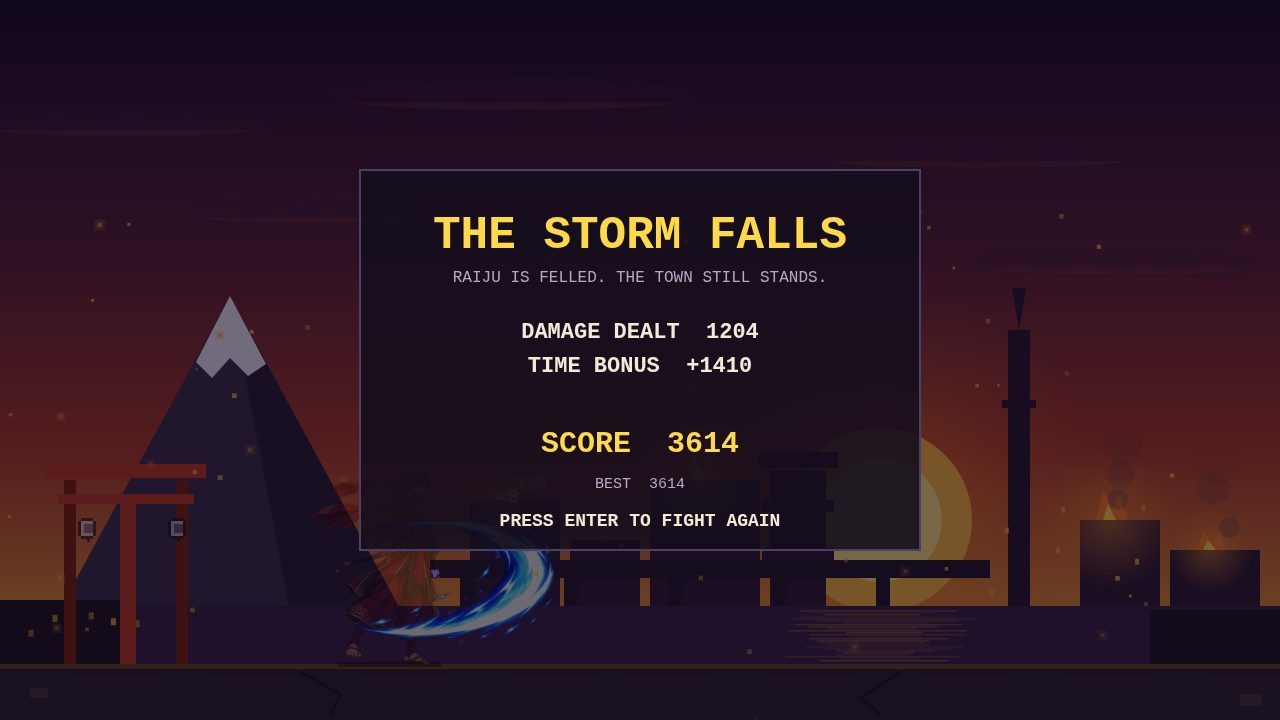
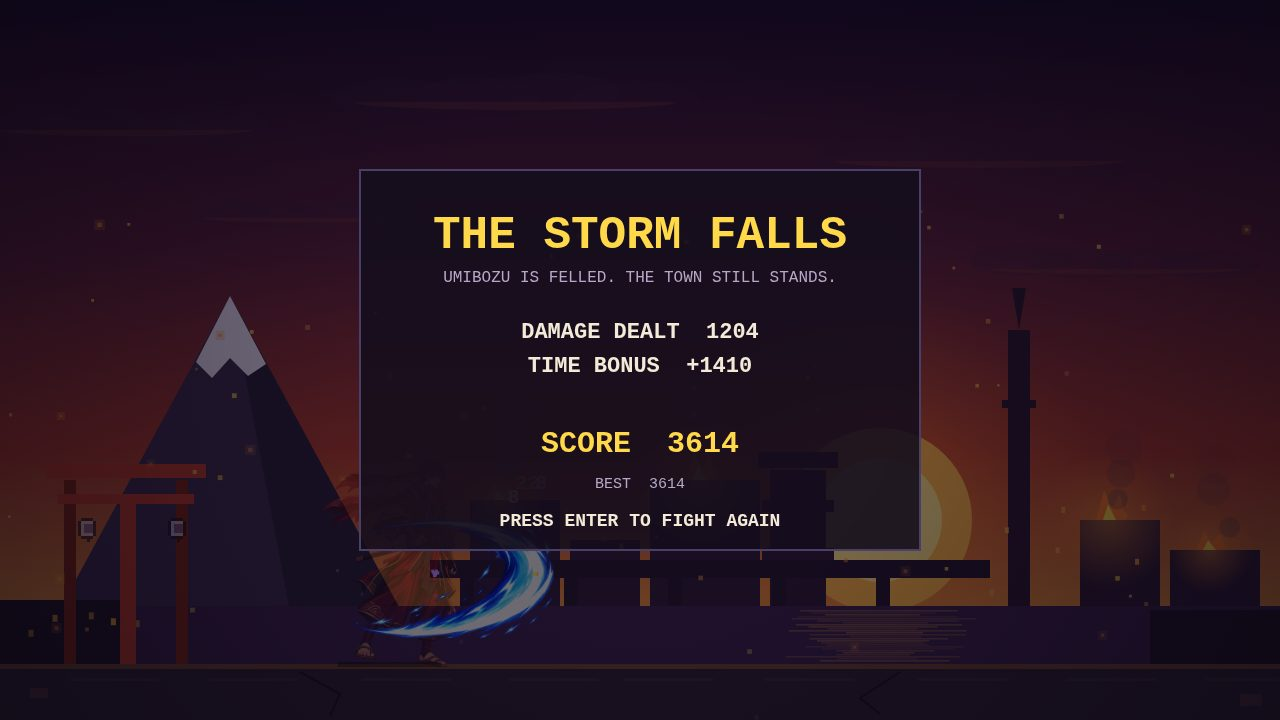
Improve: distinct kaiju per type, slash lunge, vignette, dynamic end text
- Kaiju now recoloured per type (recolorKaiju): KAGUTSUCHI fire red/orange,
  UMIBOZU sea blue, SANRYU dragon gold — body, belly, mane, highlight,
  shadow, eye and crackle each have their own palette keys; HUD portraits
  match the drawn kaiju. No more identical purple Raiju.
- Slash lunge: hero drives forward 14px into slash/heavy, easing back.
- Cinematic vignette over the background (radial darkening at the edges).
- End screen uses the drawn kaiju's name (UMIBOZU IS FELLED...) instead
  of the hardcoded RAIJU line; README intro updated to 'a kaiju'.
- Hero raster height 200 -> 210 (visual only, hitbox unchanged).
- Verified: node --check all files, palette validation (all keys valid,
  3 kaiju structurally identical but differently coloured), screenshots
  re-taken (all <=256 KiB), determinism byte-identical.

diff --git a/game/src/render.js b/game/src/render.js
@@ -323,6 +323,12 @@ export function createRenderer(canvas, assets) {
       ctx.fillRect(x, y, size, size);
     }
     ctx.globalAlpha = 1;
+    // Cinematic vignette: the edges darken, pulling the eye to the duel.
+    const vig = ctx.createRadialGradient(640, 360, 260, 640, 360, 760);
+    vig.addColorStop(0, 'rgba(10,6,16,0)');
+    vig.addColorStop(1, 'rgba(10,6,16,0.42)');
+    ctx.fillStyle = vig;
+    ctx.fillRect(0, 0, FIELD.width, FIELD.height);
   }
 
   // ---------------------------------------------------------- actors
@@ -346,6 +352,14 @@ export function createRenderer(canvas, assets) {
     // Invulnerability: the ronin goes ghostly, never invisible — the hero
     // must always read, even in a screenshot.
     const ghost = r.invulnerable > 0 && Math.floor(elapsed * 14) % 2 === 0;
+    // Slash lunge: the hero drives forward into the cut, strongest at the
+    // start of the swing, easing back as the pose ends.
+    let lunge = 0;
+    if (r.pose === 'slash' || r.pose === 'heavy') {
+      const dur = r.pose === 'heavy' ? 0.32 : 0.18;
+      lunge = r.facing * 14 * Math.max(0, Math.min(1, r.poseTime / dur));
+    }
+    const hx = r.x + lunge;
     const img = heroImage(state);
     if (img) {
       // One static raster portrait, so the pose reads through motion: a
@@ -360,7 +374,7 @@ export function createRenderer(canvas, assets) {
       } else if (r.pose === 'slash') tilt = 0.16 * r.facing;
       else if (r.pose === 'heavy') tilt = 0.22 * r.facing;
       else if (r.pose === 'hurt') filter = 'brightness(1.7) saturate(0.6)';
-      drawRaster(img, r.x, r.y + bob, 200, {
+      drawRaster(img, hx, r.y + bob, 210, {
         flip: r.facing < 0,
         tilt,
         alpha: ghost ? 0.45 : 1,
@@ -372,11 +386,11 @@ export function createRenderer(canvas, assets) {
       ctx.save();
       if (ghost) ctx.globalAlpha = 0.45;
       if (r.facing < 0) {
-        ctx.translate(r.x, 0);
+        ctx.translate(hx, 0);
         ctx.scale(-1, 1);
-        ctx.translate(-r.x, 0);
+        ctx.translate(-hx, 0);
       }
-      drawPixelSprite(ctx, roninFrame(state), r.x, r.y, scale);
+      drawPixelSprite(ctx, roninFrame(state), hx, r.y, scale);
       ctx.restore();
     }
     // Shadow.
@@ -393,9 +407,10 @@ export function createRenderer(canvas, assets) {
     const rear = k.headRear * 28;
     const drop = k.bodyDrop * 18;
     const bob = Math.sin(elapsed * 2.2) * 3;
+    const set = SPRITES.raiju[state.kaiju || 'fire'] || SPRITES.raiju.fire;
     const frame = (k.state === 'telegraph' && (k.attack === 'swipe' || k.attack === 'leap')) || k.state === 'recover'
-      ? SPRITES.raiju.open
-      : SPRITES.raiju.closed;
+      ? set.open
+      : set.closed;
     ctx.save();
     if (k.flash > 0) ctx.filter = 'brightness(1.7) saturate(0.6)';
     drawPixelSprite(ctx, frame, k.x, FIELD.groundY + drop - rear + bob, s);
@@ -653,8 +668,10 @@ export function createRenderer(canvas, assets) {
     ctx.fillStyle = PALETTE.text;
     ctx.fillText(`SCORE ${state.score}`, FIELD.width / 2, 68);
     ctx.textAlign = 'left';
-    // Kaiju portrait + HP + phase (top-right).
-    drawPixelSpriteAt(ctx, SPRITES.portraits.kaiju, FIELD.width - 72, 12, 3);
+    // Kaiju portrait + HP + phase (top-right). The portrait matches the
+    // drawn kaiju type (fire / sea / dragon).
+    const kaiPortrait = SPRITES.portraits.kaiju[state.kaiju || 'fire'] || SPRITES.portraits.kaiju.fire;
+    drawPixelSpriteAt(ctx, kaiPortrait, FIELD.width - 72, 12, 3);
     ctx.textAlign = 'right';
     ctx.font = `bold 15px ${FONT}`;
     ctx.fillStyle = PALETTE.text;
@@ -797,8 +814,9 @@ export function createRenderer(canvas, assets) {
     ctx.fillText(state.won ? 'THE STORM FALLS' : 'THE STORM WINS', FIELD.width / 2, y + 78);
     ctx.fillStyle = PALETTE.muted;
     ctx.font = `16px ${FONT}`;
+    const kaiName = KAIJU_TYPES[state.kaiju || 'fire'].name;
     ctx.fillText(
-      state.won ? 'RAIJU IS FELLED. THE TOWN STILL STANDS.' : 'THE SAMURAI FALLS. THE THUNDER ROLLS ON.',
+      state.won ? `${kaiName} IS FELLED. THE TOWN STILL STANDS.` : 'THE SAMURAI FALLS. THE THUNDER ROLLS ON.',
       FIELD.width / 2, y + 112,
     );
     ctx.fillStyle = PALETTE.text;

diff --git a/game/src/sprites.js b/game/src/sprites.js
@@ -41,6 +41,28 @@ export const PALETTE = {
   I: '#b39ddb', // kaiju body highlight (lighter violet top)
   V: '#33204f', // kaiju deep shadow
   a: '#8a2a1a', // red samurai cloth shadow / hakama (dark red)
+  // Kaiju variants (recolours of the Raiju matrices): fire, sea, dragon.
+  b: '#c0392b', // fire body (red)
+  c: '#f5b041', // fire belly (orange)
+  d: '#7e2a1e', // fire mane (dark red)
+  e: '#e67e22', // fire highlight (orange)
+  f: '#4a1a12', // fire shadow (dark red)
+  g: '#ff7a2a', // fire eye (orange)
+  h: '#ffd94a', // fire crackle (yellow)
+  i: '#2f6fb2', // sea body (blue)
+  j: '#1f4d80', // sea mane (dark blue)
+  k: '#a8d8ff', // sea belly (light blue)
+  l: '#7ec8ff', // sea highlight (cyan)
+  m: '#0f2a4a', // sea shadow (dark blue)
+  n: '#bfe8ff', // sea eye (bright cyan)
+  o: '#5ac8ff', // sea crackle (cyan)
+  p: '#b8860b', // dragon body (gold)
+  q: '#6b4e00', // dragon mane (dark gold)
+  r: '#e8d9a8', // dragon belly (pale gold)
+  s: '#ffd94a', // dragon highlight (bright gold)
+  t: '#3d2a00', // dragon shadow (dark gold)
+  u: '#fff3a0', // dragon eye (pale gold)
+  v: '#e8c832', // dragon crackle (gold)
 };
 
 /** Draw one matrix sprite centred on (cx, cy) at the given pixel scale. */
@@ -623,18 +645,45 @@ const SAMURAI_BLUE = {
 /** AKA (red): indigo cloth -> bright red, shadows/hakama -> dark red, sash -> gold. */
 const SAMURAI_RED = recolorSamurai(SAMURAI_BLUE, { B: 'A', D: 'a', Q: 'a', A: 'X' });
 
+/** Recolour a kaiju pose set (closed/open) through a key->key map. */
+function recolorKaiju(set, map) {
+  const recolor = (frame) => frame.map((row) => [...row].map((ch) => map[ch] || ch).join(''));
+  return { closed: recolor(set.closed), open: recolor(set.open) };
+}
+
+const RAIJU_BASE = { closed: RAIJU_CLOSED, open: RAIJU_OPEN };
+/** KAGUTSUCHI (fire): red body, orange belly, dark-red mane, orange eye. */
+const RAIJU_FIRE = recolorKaiju(RAIJU_BASE, { M: 'd', Y: 'b', L: 'c', I: 'e', V: 'f', '2': 'g', Z: 'h' });
+/** UMIBOZU (sea): blue body, light-blue belly, dark-blue mane, cyan eye. */
+const RAIJU_SEA = recolorKaiju(RAIJU_BASE, { M: 'j', Y: 'i', L: 'k', I: 'l', V: 'm', '2': 'n', Z: 'o' });
+/** SANRYU (dragon): gold body, pale-gold belly, dark-gold mane, pale-gold eye. */
+const RAIJU_DRAGON = recolorKaiju(RAIJU_BASE, { M: 'q', Y: 'p', L: 'r', I: 's', V: 't', '2': 'u', Z: 'v' });
+
+/** Recolour a 16x16 portrait through a key->key map. */
+function recolorPortrait(frame, map) {
+  return frame.map((row) => [...row].map((ch) => map[ch] || ch).join(''));
+}
+const KAIJU_PORTRAIT_FIRE = recolorPortrait(KAIJU_PORTRAIT, { M: 'd', Y: 'b', L: 'c', '2': 'g' });
+const KAIJU_PORTRAIT_SEA = recolorPortrait(KAIJU_PORTRAIT, { M: 'j', Y: 'i', L: 'k', '2': 'n' });
+const KAIJU_PORTRAIT_DRAGON = recolorPortrait(KAIJU_PORTRAIT, { M: 'q', Y: 'p', L: 'r', '2': 'u' });
+
 export const SPRITES = {
   samurai: {
     blue: SAMURAI_BLUE,
     red: SAMURAI_RED,
   },
   raiju: {
-    closed: RAIJU_CLOSED,
-    open: RAIJU_OPEN,
+    fire: RAIJU_FIRE,
+    sea: RAIJU_SEA,
+    dragon: RAIJU_DRAGON,
   },
   portraits: {
     hero: HERO_PORTRAIT,
-    kaiju: KAIJU_PORTRAIT,
+    kaiju: {
+      fire: KAIJU_PORTRAIT_FIRE,
+      sea: KAIJU_PORTRAIT_SEA,
+      dragon: KAIJU_PORTRAIT_DRAGON,
+    },
   },
   lantern: LANTERN,
 };

diff --git a/README.md b/README.md
@@ -1,6 +1,6 @@
 # SAMURAI ZERO
 
-A lone samurai — a ronin with nothing left to lose — duels **Raiju, the thunder kaiju**, in a burning castle town at
+A lone samurai — a ronin with nothing left to lose — duels **a kaiju**, in a burning castle town at
 dusk. Three minutes on the clock, three boss phases, one blade. Named for the moment after ruin, when a fighter starts from zero.
 
 A make.fun **best-game-01** entry. The game is plain static files — no
